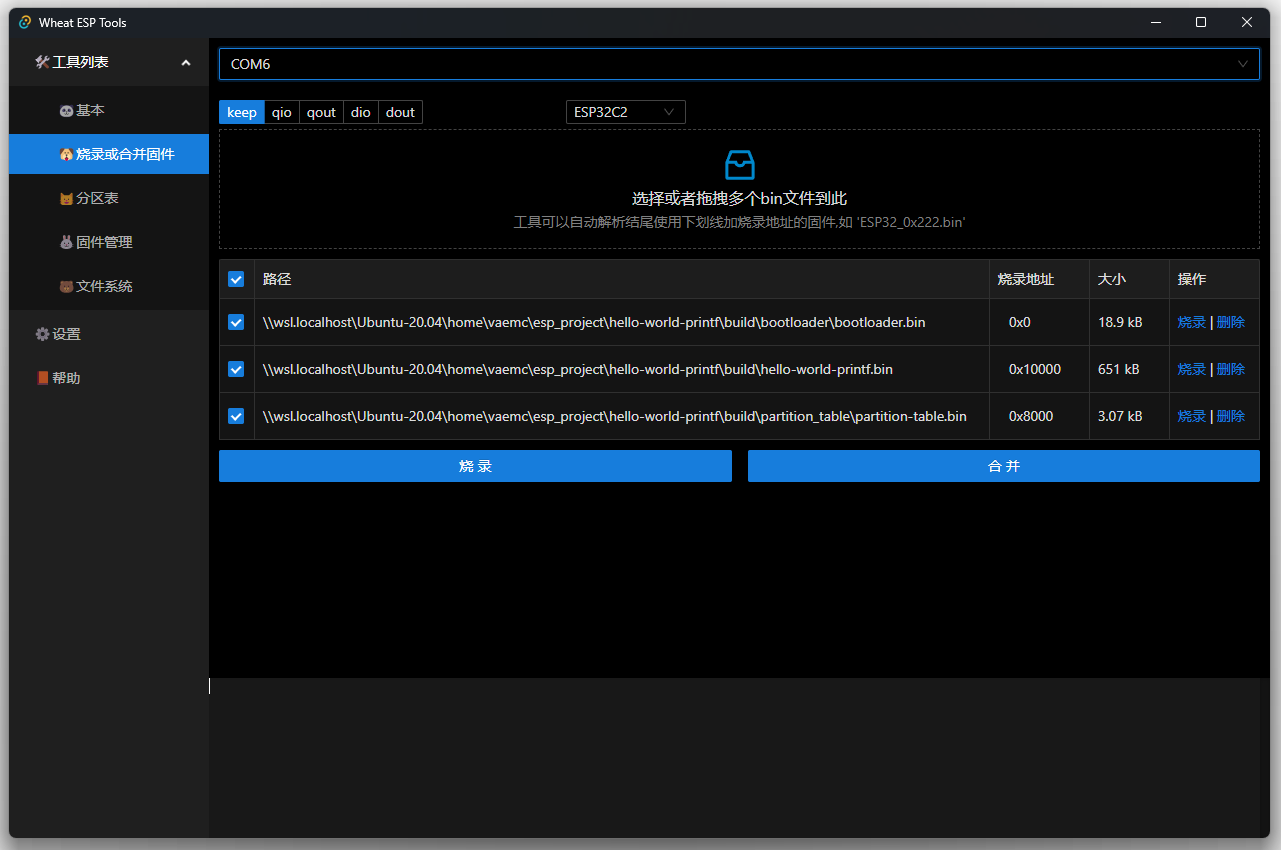
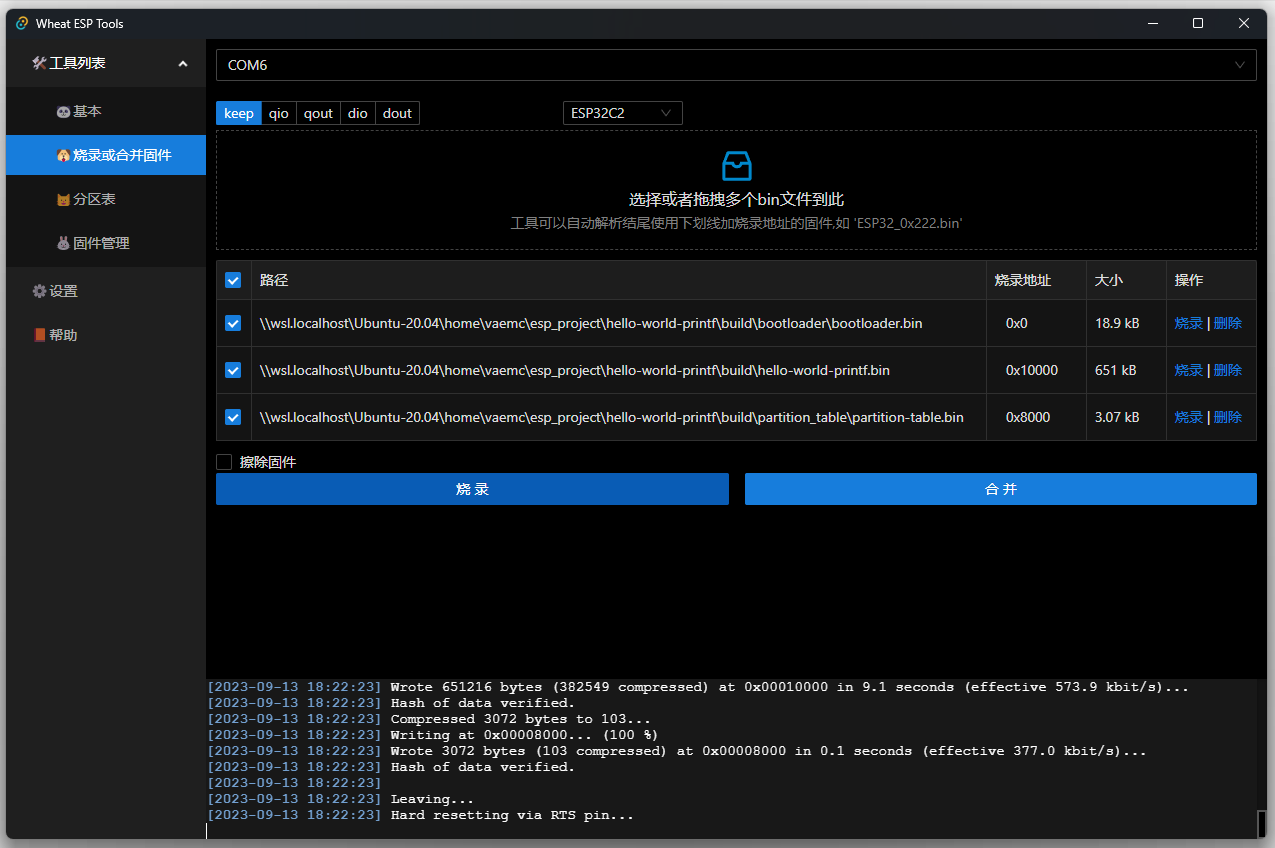
优化代码

diff --git a/src/views/tools/firmware/components/HistoryPath.vue b/src/views/tools/firmware/components/HistoryPath.vue
@@ -16,9 +16,12 @@
       <template #renderItem="{ item }">
         <a-list-item
           ><template #actions>
-            <a-popover title="SPI Mode">
+            <a-popover placement="topLeft" title="烧录选项">
               <template #content>
-                <SPIMode v-model="selectedMode" />
+                <SPIMode v-model="selectedMode" /><a-checkbox
+                  v-model:checked="eraseChecked" style="margin-left: 5px;"
+                  >擦除固件</a-checkbox
+                >
               </template>
               <a @click="flash(item)">烧录</a>
             </a-popover>
@@ -49,7 +52,7 @@ import SPIMode from "@/components/SPIMode.vue";
 import cli, { execute } from "@/utils/cli";
 const selectedMode = ref("keep");
 const pathList = ref((await db.getAll("paths")).map((item) => item.path));
-
+const eraseChecked = ref(false);
 async function flash(path: string) {
   const port = localStorage.getItem("port") as string;
 
@@ -82,7 +85,9 @@ async function flash(path: string) {
       )
     ).flatMap((x) => [x.address, x.path]),
   ];
-
+  if(eraseChecked.value){
+    cmd.push("--erase-all");
+  }
   execute("esptool", cmd);
 
   const resultPromise = new Promise((resolve, reject) => {

diff --git a/src/views/tools/firmware/components/FirmwareList.vue b/src/views/tools/firmware/components/FirmwareList.vue
@@ -19,9 +19,12 @@
       <template #renderItem="{ item }">
         <a-list-item
           ><template #actions>
-            <a-popover title="SPI Mode">
+            <a-popover placement="topLeft" title="烧录选项">
               <template #content>
-                <SPIMode v-model="selectedMode" />
+                <SPIMode v-model="selectedMode" /><a-checkbox
+                  v-model:checked="eraseChecked" style="margin-left: 5px;"
+                  >擦除固件</a-checkbox
+                >
               </template>
               <a @click="flash(item)">烧录</a>
             </a-popover>
@@ -46,7 +49,7 @@ import SPIMode from "@/components/SPIMode.vue";
 import cli, { execute } from "@/utils/cli";
 
 const selectedMode = ref("keep");
-
+const eraseChecked = ref(false);
 const pathList = ref(await getFirmwareList());
 const currentDir = await getCurrentDir();
 
@@ -64,7 +67,9 @@ async function flash(path: string) {
     "0x0",
     path,
   ];
-
+  if(eraseChecked.value){
+    cmd.push("--erase-all");
+  }
   execute("esptool", cmd);
 
   const resultPromise = new Promise((resolve, reject) => {

diff --git a/src/views/tools/flash/Index.vue b/src/views/tools/flash/Index.vue
@@ -66,7 +66,7 @@
       </template>
     </template>
   </a-table>
-
+  <a-checkbox v-model:checked="eraseChecked">擦除固件</a-checkbox>
   <a-row :gutter="16">
     <a-col :span="12">
       <a-button type="primary" @click="handle(flash)" block
@@ -106,6 +106,7 @@ const destroyDrop = useElementVisibility(target);
 const flashCheckOption = ref({ indeterminate: false, selectAll: false });
 
 const selectedMode = ref("keep");
+const eraseChecked = ref(false);
 const firmware = ref({} as Firmware);
 const firmwareList = ref([] as Firmware[]);
 const currentDir = await getCurrentDir();
@@ -157,6 +158,9 @@ const flash = async () => {
       .filter((x) => x.check)
       .flatMap((x) => [x.address, x.path]),
   ];
+  if(eraseChecked.value){
+    cmd.push("--erase-all");
+  }
   execute("esptool", cmd);
 
   const resultPromise = new Promise((resolve, reject) => {

diff --git a/src/views/tools/partition/Index.vue b/src/views/tools/partition/Index.vue
@@ -124,8 +124,7 @@ async function partitionTableConvert(
   flashSize: string,
   isBin: boolean
 ) {
-  // let currentDir = await getCurrentDir();
-  let currentDir = "D:\\aaaaaaaaa";
+  let currentDir = await getCurrentDir();
   if (!isBin) {
     await writeAllText(currentDir + "\\partitions\\temp.csv", input);
   }

diff --git a/src/router/index.ts b/src/router/index.ts
@@ -78,7 +78,7 @@ const router = createRouter({
               meta: {
                 icon: "🐻",
                 title: "文件系统",
-                display: true,
+                display: false,
                 portShow: false,
               },
             },
